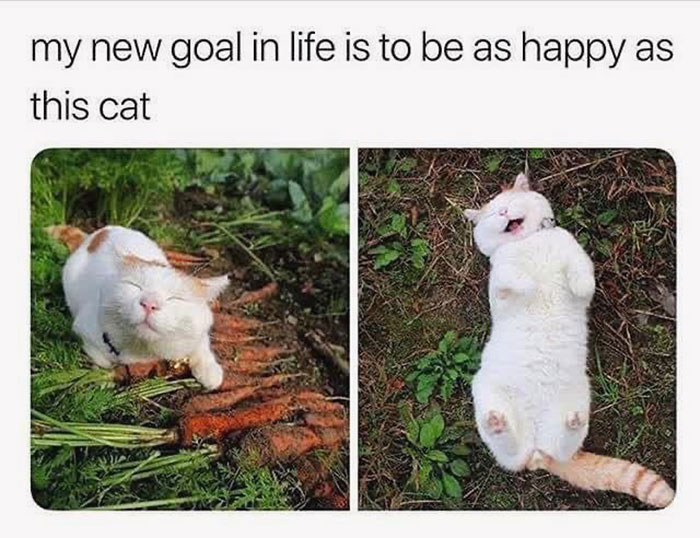
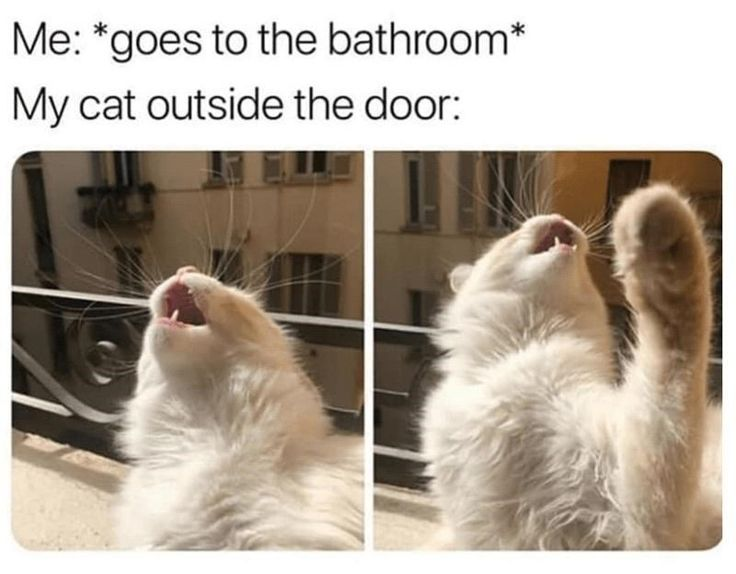
feat: add mobile adaptability (Sun, Sep 15, 2024 03:39:53 PM)

diff --git a/cssMemeSlider/style.css b/cssMemeSlider/style.css
@@ -1,4 +1,5 @@
 * {
+    margin: 0;
     padding: 0;
     box-sizing: border-box;
 }
@@ -18,7 +19,7 @@ body {
 }
 
 .meme_slider {
-    width: 40%;
+    width: 50%;
     height: 60%;
     margin: 0 auto;
 
@@ -26,7 +27,7 @@ body {
     flex-direction: column;
     justify-content: center;
 
-    overflow: hidden;    
+    overflow: hidden;
 }
 
 .meme_slides {
@@ -34,7 +35,7 @@ body {
     height: 100%;
 
     display: flex;
-    
+
     transition: transform 0.5s ease;
 }
 
@@ -66,19 +67,19 @@ input[type="radio"] {
     display: none;
 }
 
-#slide_1:checked ~ .meme_slides {
+#slide_1:checked~.meme_slides {
     transform: translateX(0%);
 }
 
-#slide_2:checked ~ .meme_slides {
+#slide_2:checked~.meme_slides {
     transform: translateX(-25%);
 }
 
-#slide_3:checked ~ .meme_slides {
+#slide_3:checked~.meme_slides {
     transform: translateX(-50%);
 }
 
-#slide_4:checked ~ .meme_slides {
+#slide_4:checked~.meme_slides {
     transform: translateX(-75%);
 }
 
@@ -96,20 +97,21 @@ input[type="radio"] {
     border-radius: 50%;
     cursor: pointer;
     transition: background-color 0.3s ease;
-    
-    &:hover{
+
+    &:hover {
         background-color: white;
     }
 }
 
-#slide_1:checked ~ .controls #control_1,
-#slide_2:checked ~ .controls #control_2,
-#slide_3:checked ~ .controls #control_3,
-#slide_4:checked ~ .controls #control_4 {
+#slide_1:checked~.controls #control_1,
+#slide_2:checked~.controls #control_2,
+#slide_3:checked~.controls #control_3,
+#slide_4:checked~.controls #control_4 {
     background-color: gray;
     border: #a9d0f8 solid;
     border-width: thin;
-    &:hover{
+
+    &:hover {
         border: white solid;
         border-width: thin;
     }
@@ -117,12 +119,34 @@ input[type="radio"] {
 
 .meme_text {
     font-family: cursive;
-    font-size: large;
+    font-size:  1.4rem;
 }
 
+@media screen and (max-width: 800px) {
+    .meme_slider {
+        width: 98%;
+        height: 77%;
+    }
+    .slide {
+        height: 120%;
+    }
+
+    .meme_slides {
+        height: 70%;
+    }
+    .controls {
+        justify-content: center;
+        margin: 1rem 0;
+    }
+    .control {
+        width: 1rem;
+        height: 1rem;
+    }
+}
 
 @media screen and (max-width: 500px) {
-    
 
-    
+    .meme_slider {
+        height: 65%;
+    }
 }

diff --git a/cssMemeSlider/index.html b/cssMemeSlider/index.html
@@ -28,12 +28,12 @@
             <div class="slide" id="meme_3">
                 <div class="meme_container_img"><img class="meme_img" src="3.jpg" alt="meme">
                 </div>
-                <div class="meme_text">Someone seems familiar</div>
+                <div class="meme_text">Monsieur cat</div>
             </div>
             <div class="slide" id="meme_4">
                 <div class="meme_container_img"><img class="meme_img" src="4.jpg" alt="meme">
                 </div>
-                <div class="meme_text">Happy life</div>
+                <div class="meme_text">Going to the bathroom</div>
             </div>
         </div>
 
